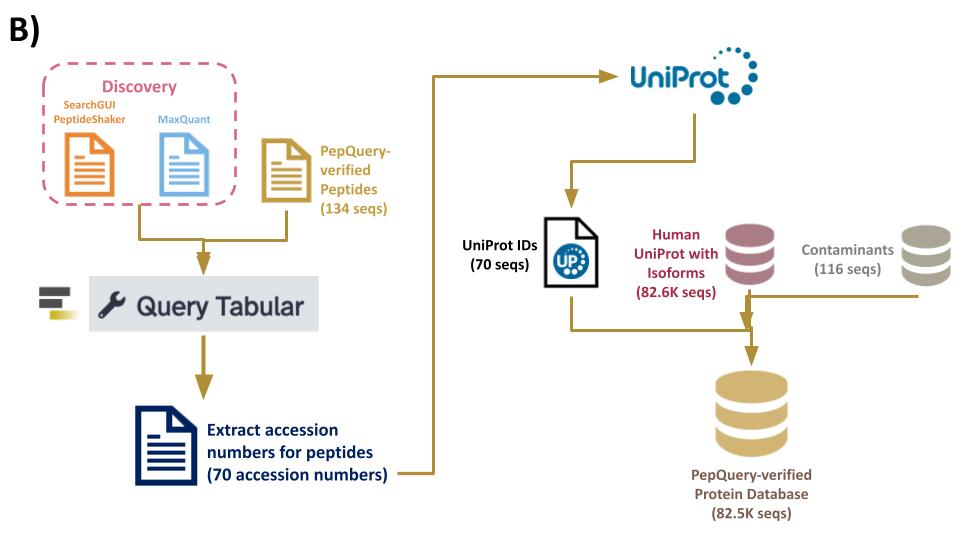
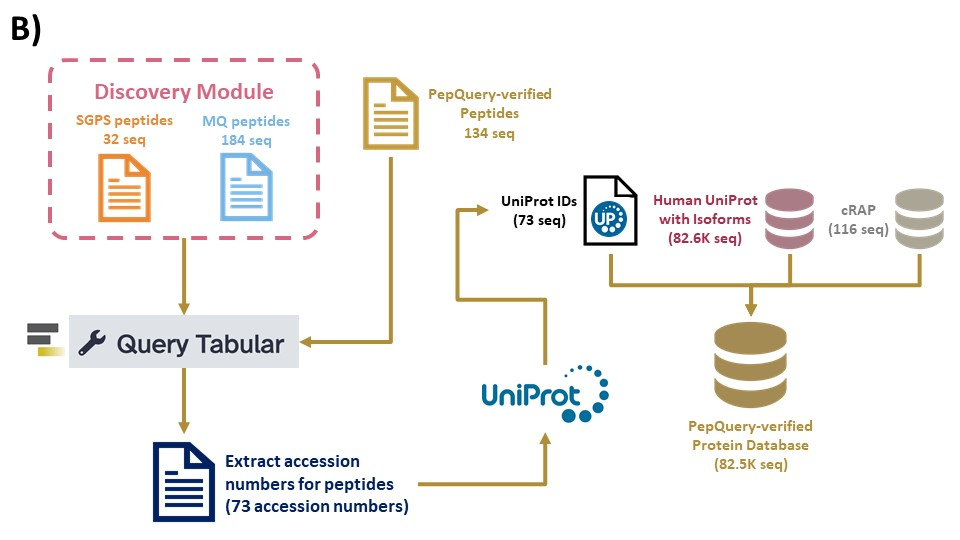
update figures

Changed region(s): [[0.0312, 0.0889, 1.0, 0.9778], [0.0, 0.0296, 0.0625, 0.0889], [0.3125, 0.1185, 0.3438, 0.1481]]

diff --git a/topics/proteomics/tutorials/clinical-mp-data-interpretation/tutorial.md b/topics/proteomics/tutorials/clinical-mp-data-interpretation/tutorial.md
@@ -96,6 +96,7 @@ The final workflow in the array of clinical metaproteomics tutorials is the data
 >
 {: .hands_on}
 
+![Database-Interpretation](../../images/clinical-mp/clinical-mp-data-interpretation-figure2.jpg "FIGURE-2")
 
 ## Sub-step with **Select**
 
@@ -184,7 +185,7 @@ MSstats TMT(Tandem Mass Tag) is a computational tool designed for the robust sta
 
 The MSstats output typically includes essential information such as estimated fold changes, p-values, and other statistical measures that help identify differentially expressed proteins across experimental conditions or sample groups. It provides a clear picture of the variations in protein expression levels, aiding in the prioritization of biologically relevant targets. MSstats output also often includes visualizations and quality control metrics, making it a valuable resource for researchers in their quest to extract meaningful insights from complex proteomic datasets and understand the underlying biology of their experiments.
 Example of our data interpretation:
-![Database-Interpretation](../../images/clinical-mp/clinical-mp-data-interpretation-figure2.jpg "FIGURE-2")
+![Database-Interpretation](../../images/clinical-mp/clinical-mp-data-interpretation-figure3.jpg "FIGURE-3")
 
 
 # Conclusion
